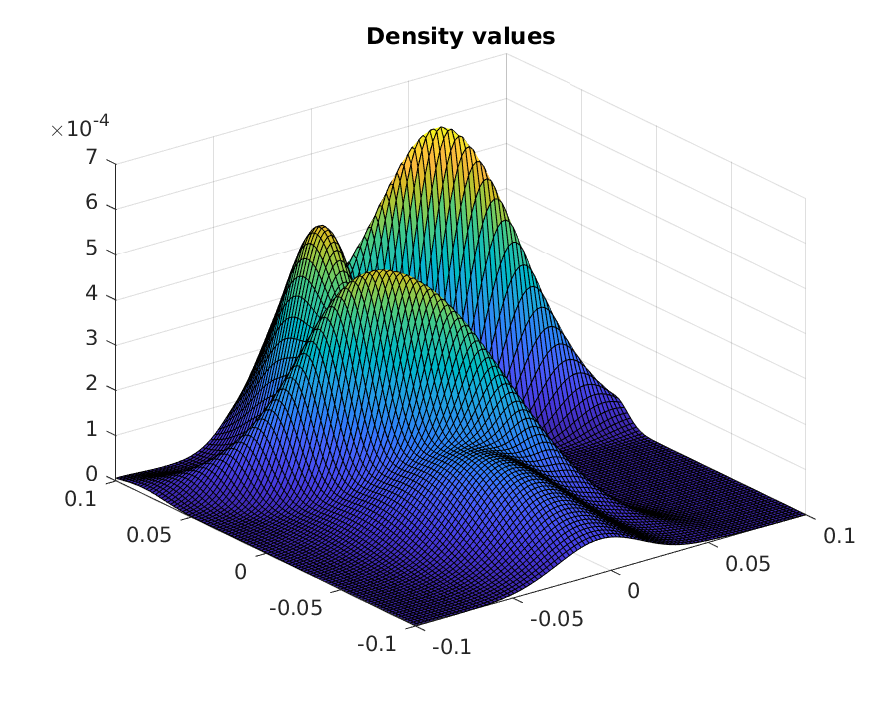
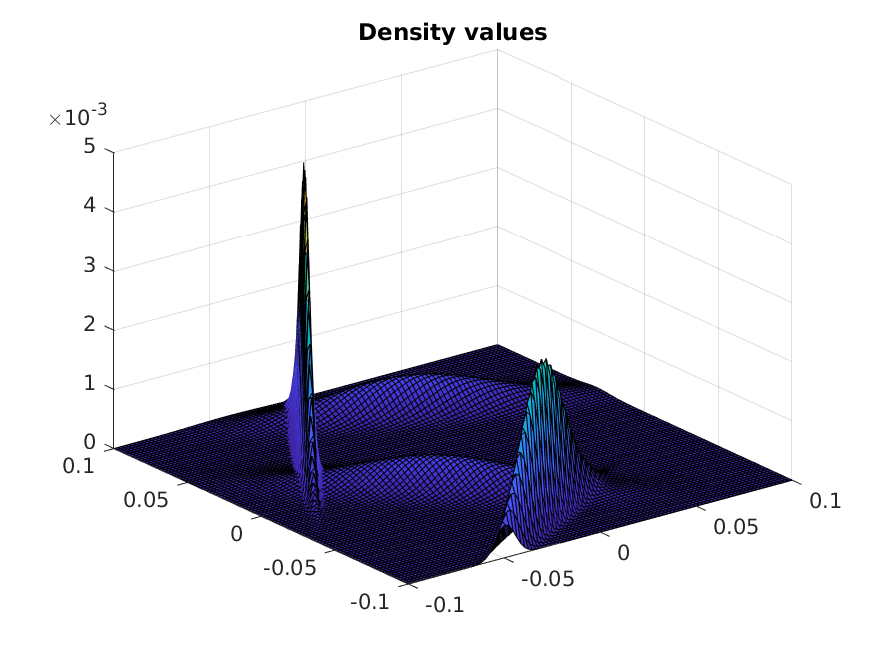
It works :') - ex1 done

diff --git a/Assignment2/Exercise1/Exercise1.m b/Assignment2/Exercise1/Exercise1.m
@@ -22,34 +22,23 @@ for i = 1:k
     sigma(:,:,i) = pi(i)*diff*diff'/double(nk);
 end
 
-
 %% b - EM algorithm
 converged = false;
-counter = 0;
-conv_criteria = 0.5;
+conv_criteria = 10e-6;
 last_logl = 0;
 logl = 1;
-while ~ converged
-    % E-step
 
-    % Calculate responsibilities
+while ~ converged
+    % E-step    Calculate responsibilities
     gamma = zeros(n,k);
     for i = 1:4
-        determinant = det(sigma(:,:,i)); % check if sigma is pos def
-        if determinant <= 0.00001
-            sigma(:,:,i) = eye(2,2)*0.0001;
-        end
-        gamma(:,i) = pi(i)*mvnpdf(Data', mu(i), sigma(:,:,i));
+        gamma(:,i) = pi(i)*mvnpdf(Data', mu(:,i)', sigma(:,:,i));
     end
     
     % Normalizing
-    for j = 1:n
-        gamma(j,:) = gamma(j,:)./sum(gamma(j,:));
-    end
-
-    % M-step
-
-    % Re-estimate parameters using the current responsibilities
+    gamma = gamma./sum(gamma,2);
+    
+    % M-step    Re-estimate parameters using the current responsibilities
     for i = 1:k
         nk = sum(gamma(:,i));
         
@@ -62,27 +51,19 @@ while ~ converged
     
     % Evaluate the log likelihood and check for convergence
     logl = 0;
-%     for j = 1:n
-%         temp_loss = 0;
-%         for i = 1:k
-%             temp_loss = temp_loss + mvnpdf(Data(:,j)', mu(i), sigma(:,:,i));
-%         end
-%         logl = logl + log(temp_loss+10e-20);
-%     end
-    for i = 1:k
-       logl = logl + pi(i)*mvnpdf(Data', mu(:,i)', sigma(:,:,i));
+    for j = 1:n
+        temp_loss = 0;
+        for i = 1:k
+            temp_loss = temp_loss + mvnpdf(Data(:,j)', mu(:,i)', sigma(:,:,i));
+        end
+        logl = logl + log(temp_loss+10e-20);
     end
     
-    conv_test = abs(last_logl-logl)
+    conv_test = abs(last_logl-logl);
     if conv_test < conv_criteria
         converged = true;
     end
     last_logl = logl;
-    
-    counter = counter + 1;
-    if counter > 500
-        converged = true;
-    end
 end
 
 
